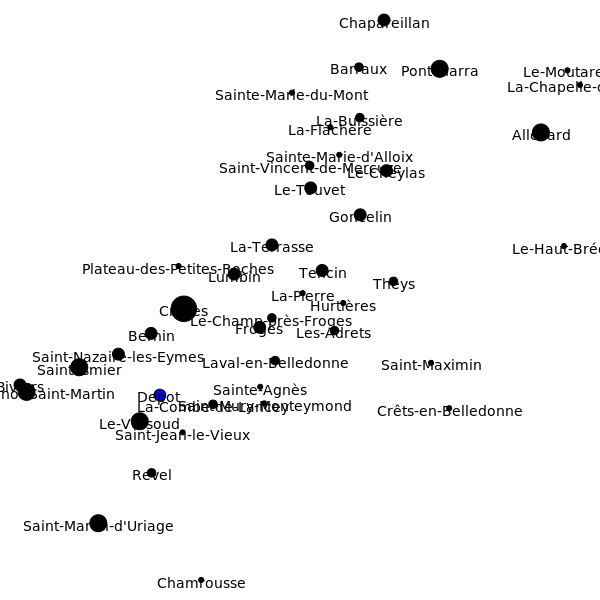
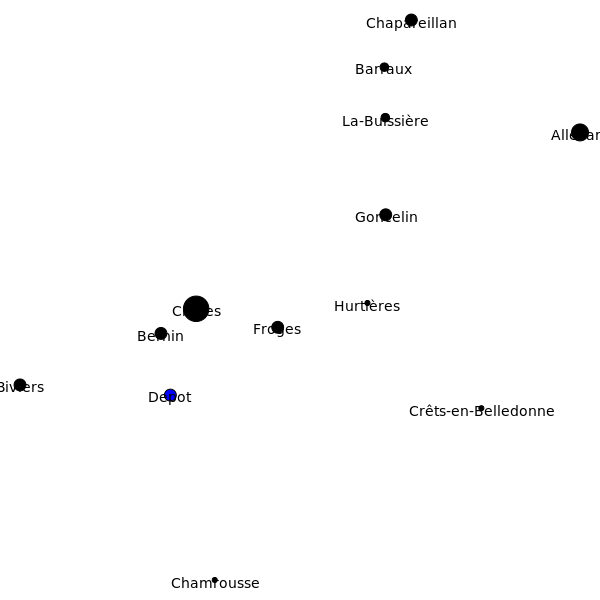
LT project gif

diff --git a/LT/project/print_sol.py b/LT/project/print_sol.py
@@ -6,6 +6,11 @@ import igraph
 from igraph import Plot
 from igraph import layout
 from matplotlib import use
+import time
+import requests
+import math
+import imageio
+
 p1 = Plot()
 # Operation:    
 #   1. Gather gps coordinates of useful cities.
@@ -16,7 +21,30 @@ p1 = Plot()
 
 ## Annexe
 additional_entries = [['Depot', '00000', 0, 0, 0, 0, 0, 0, 5.87114, 45.2313]]
+distances = 'LT/project/txt_files/distances.txt'
+w_time = 5.1
+duration = 1
 
+# Solution found for MILP. Each y_i correspond to a tour; ordered. each x_i correspond to a fraction of the tour realized. 
+y_1 = [9, 11, 1, 5]
+y_2 = [4]
+y_3 = [7]
+y_4 = [2, 7]
+y_5 = [8, 10, 6]
+y_6 = [3]
+y_7 = [0, 9]
+Y = [y_1, y_2, y_3, y_4, y_5, y_6, y_7]
+
+x_1 = [0.23, 1, 1, 1]
+x_2 = [1]
+x_3 = [0.5]
+x_4 = [1, 0.5]
+x_5 = [1, 1, 1]
+x_6 = [1]
+x_7 = [1, 0.77]
+X = [x_1, x_2, x_3, x_4, x_5, x_6, x_7]
+
+ 
 raw_data = [['Allevard', 38006, 25.63, 4062.0, '158', 326, 356,6.0744406,45.3934726],
 ['Barraux', 38027, 11.13, 1918.0, '172', 223, 80,5.9773523,45.4337691],
 ['Bernin', 38039, 7.67, 3044.0, '397', 84, 343,5.8664744,45.2693836],
@@ -62,7 +90,7 @@ raw_data = [['Allevard', 38006, 25.63, 4062.0, '158', 326, 356,6.0744406,45.3934
 
 #
 
-selected_cities = [i for i in range(len(raw_data))]
+selected_cities = [i for i in range(12)]
 city_col = 'black'
 active_col = 'red'
 depot_col = 'blue'
@@ -111,31 +139,193 @@ def main():
         
         g.vs[vi]['label'] = useful_entries[vi][0]
 
-    #population:
-    Pop = []
-    for entry in useful_entries:
-        pop = entry[3]
-        if pop < 700:
-            Pop.append(3)
-        elif pop < 2000:
-            Pop.append(5)
-        elif pop < 4000:
-            Pop.append(7)
-        elif pop > 8200:
-            Pop.append (15)
-        else: 
-            Pop.append(10)
-            
-    Pop[-1] = 7
+    
 
     vs_dict = {'city' : city_col, 'active' : active_col, 'depot': depot_col }
     es_dict = {'inactive' : inactive_edge_col, 'active': active_edge_col}
     
     #n: plot 
 
-    name = images_loc + 'test.png'
-    igraph.plot(g, name, layout = layout1, vertex_color = [vs_dict[v_type]  for v_type in g.vs['type']], vertex_size = [1.7*pop_i for pop_i in Pop  ] )
+    #name = images_loc + 'test.png'
+    #igraph.plot(g, name, layout = layout1, vertex_color = [vs_dict[v_type]  for v_type in g.vs['type']], vertex_size = [1.7*pop_i for pop_i in Pop  ] )
+    partial_solution(X, Y, useful_entries, g,layout1)
+
+
+def get_matrix(dim, verb = True, data = raw_data):
+    k = 0
+    if dim == 'distance':
+        k=1
+    elif dim == 'duration':
+        k=2
+    else:
+        print('dim parameter invalid. duration or distance are the only possibilities.')
+        return None
+    #f = open(database)
+    #content_database = f.readlines()
     
+    #S = len(content_database)
+    S = len(data)
+    M = []
+    for i in range(S):
+        M_i = []
+        for j in range(S):
+            if verb:
+                print('seek ' + str(i) + ',' +str(j), end = ' / ')
+            gps1, gps2 = get_gps(i, data), get_gps(j, data)
+            dist, dura = seek(gps1, gps2)
+            if k ==1:
+                M_i.append(dist)
+            else: 
+                M_i.append(dura)
+        M.append(M_i)
+        if verb:
+            print("line " + str(i) + "out of " + str(S) + "computed.")
+
+    return M
+
+def seek(gps1, gps2):
+    """
+    look in the distance file for a line corresponding to a travel from gps1 to gps2. If we can't find one, add it and wait for 5 seconds. 
+    """
+    f = open(distances, 'r')
+    line = f.readline()
+    split = line.split(";")
+
+    while len(split) >= 4 :
+        if split[0] == str(gps1) and split[1] == str(gps2) or split[1] == str(gps1) and split[0] == str(gps2):
+            resa, resb = split[2], split[3]
+            resb = resb[0: len(resb)-1]
+
+            return resa, resb
+        line = f.readline()
+        split = line.split(";")
+
+    f.close()
+    
+    # if we arrive here it means the travel from gps1 to gps2 has not been computed for some reason.
+    print("\nTravel from " + gps1 + ' to '+ gps2 + 'has not been ever computed. We compute it now.')
+    sd = gps1 + ';' + gps2
+    dist, dura = call(sd)
+
+    f = open(distances, 'a')
+    f.write(gps1 + ";" + gps2 + ';'+dist+';'+dura+'\n' )
+    f.close()
+
+    print("distance.txt file succesfully appened. The script goes to sleep for " + str(w_time)+ 'secs.')
+    time.sleep(w_time)
+    return dist, dura
+
+
+
+def call(sd):   #infamously copy pasted from fuck_me.py.
+    """
+    use osrm to get the distance between s and d. Note sd must be a string obtained by doing: s+';'+d
+    """
+    url = "http://router.project-osrm.org/route/v1/driving/"+ sd + "?alternatives=true"
+    r = requests.get(url)
+    res = r.json()
+    return str(res["routes"][0]["distance"]), str(res["routes"][0]["duration"])
+
+
+def get_gps(i, data=raw_data):
+    """ 
+    uses the raw_data table to get the gps values of the city i as a string.
+    """
+    return str(data[i][-2]) + ',' + str(data[i][-1])
+
+## Partial sol
+
+def partial_solution(X, Y, useful_entries,g, layout):
+    """
+    returns the value of the solution (time) and plots it as a gif.
+    """
+    optimal_value(X, Y, useful_entries)
+    solution_animation(X, Y, useful_entries,g, layout)
+
+def solution_animation(X, Y, useful_entries,g, layout1):
+    """
+    animates as a gif the solution given.
+    g is a igraph.Graph, layout is the associated layout.
+    """
+
+    #for each tour, print two images: before and after the tour.
+    # each city start with a size of 20 and get gradually reduced as the tour goes up.
+    for v in g.vs:
+        v["size"] = 30
+
+
+    for i in range(len(Y)):
+        name = images_loc +'tour_'+str(i+1)
+        tour = [12] + Y[i] + [12]
+        gp = g
+        
+
+        igraph.plot(gp, name +'_1.png', layout = layout1, vertex_size = [ v["size"] for v in gp.vs  ] )
+
+        for j in range(len(tour)-1):
+            gp.add_edge(tour[j], tour[j+1])
+
+        
+        igraph.plot(gp, name+'_2.png', layout=layout1, vertex_size = [ v["size"] for v in gp.vs  ])
+
+        for j in range(len(Y[i])):
+            v_j = Y[i][j]
+            f_j = X[i][j]
+            g.vs[v_j]["size"] = gp.vs[v_j]["size"] - 30* (f_j)
+
+        nE = len(g.es)
+
+        for e_i in range(nE):
+            g.delete_edges(0)
+
+        ## Gif ploting
+
+    filename_list = []
+    for i in range(1, 8):
+        name = images_loc + 'tour_' + str(i) 
+        filename_list.append(name+ '_1.png')
+        filename_list.append(name+ '_2.png')
+
+    images = []
+    for fname in filename_list:
+        images.append(imageio.imread(fname))
+    imageio.mimsave(gif_loc + 'gif_sol_12.gif', images, duration=duration)
+    
+
+
+
+
+def optimal_value(X, Y, useful_entries):
+    """
+    computes the optimal (time) value of the solution obtained.
+    """
+    Mt = get_matrix('duration',verb = False, data = useful_entries)
+
+    total_time = 0 
+
+    for k in range(len(Y)):
+        tour_time = 0
+        tour = [12] + Y[k] + [12]
+        for i in range(len(tour)-1):
+            tour_time += float(Mt[tour[i]][tour[i+1]])
+        total_time += tour_time
+    print("total traveling time is " + str(total_time))
+
+
+    total_pop = 0
+    for entry in useful_entries:
+        total_pop += entry[3]
+
+    gather_time = 3600*7*total_pop/2000 
+    print("total population of the sector is " + str(total_pop) +'\nleading to a total gathering time of ' + str(gather_time) )
+    
+
+    return total_time + gather_time
+        
+
+
+
+
 ###
 
 # What does a solution looks like? 
